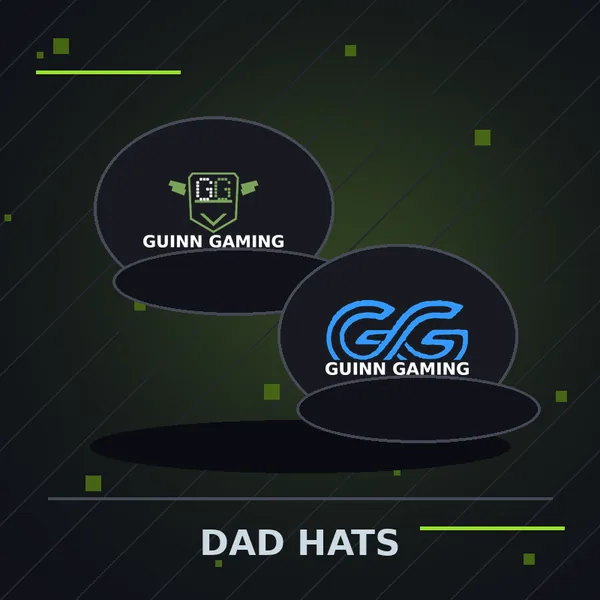
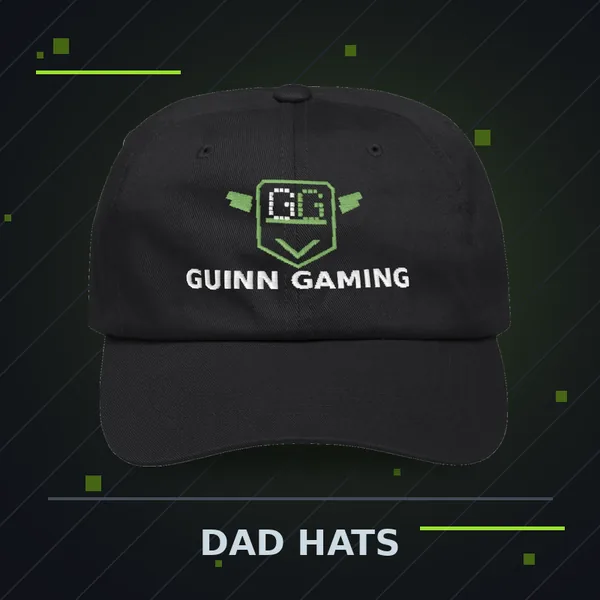
Store: swap category tiles for real Fourthwall product mockups (v2); update alt text

diff --git a/store/index.html b/store/index.html
@@ -67,49 +67,49 @@
       <p class="lead">Pick a category to browse it on the shop.</p>
       <div class="grid cat-grid">
         <a class="cat-card" style="--accent:#9BE22D" href="https://guinngaming-shop.fourthwall.com/" rel="noopener">
-          <img class="cat-img" src="../assets/img/store/tile-tees.webp" width="600" height="600" alt="Charcoal tee mockup with the cyan cyber-circuit GuinnGaming GG logo on the chest" loading="lazy">
+          <img class="cat-img" src="../assets/img/store/tile-tees.webp" width="600" height="600" alt="Black GuinnGaming tee with the cyan cyber-circuit GG logo (L06) printed on the chest" loading="lazy">
           <h3>Tees</h3>
           <p>Soft everyday tee with your favorite GG on the front.</p>
           <span class="price">$22</span>
           <span class="go">Shop tees &rarr;</span>
         </a>
         <a class="cat-card" style="--accent:#2ee6d6" href="https://guinngaming-shop.fourthwall.com/" rel="noopener">
-          <img class="cat-img" src="../assets/img/store/tile-hoodies.webp" width="600" height="600" alt="Charcoal hoodie mockup with the metallic cyan and purple GG logo on the chest" loading="lazy">
+          <img class="cat-img" src="../assets/img/store/tile-hoodies.webp" width="600" height="600" alt="Black GuinnGaming hoodie with the metallic cyan and purple GG logo (L15) printed on the chest" loading="lazy">
           <h3>Hoodies</h3>
           <p>Cozy pullover hoodie for long gaming nights.</p>
           <span class="price">$40</span>
           <span class="go">Shop hoodies &rarr;</span>
         </a>
         <a class="cat-card" style="--accent:#f5c542" href="https://guinngaming-shop.fourthwall.com/" rel="noopener">
-          <img class="cat-img" src="../assets/img/store/tile-dad-hats.webp" width="600" height="600" alt="Two dark dad hat mockups, one with the lime and white shield logo and one with the aqua neon GG logo embroidered on the front" loading="lazy">
+          <img class="cat-img" src="../assets/img/store/tile-dad-hats.webp" width="600" height="600" alt="Black GuinnGaming dad hat with the lime and white esports shield logo (L03) embroidered on the front" loading="lazy">
           <h3>Dad Hats</h3>
           <p>Embroidered dad hat with a clean, bold logo.</p>
           <span class="price">$25</span>
           <span class="go">Shop hats &rarr;</span>
         </a>
         <a class="cat-card" style="--accent:#ff9f43" href="https://guinngaming-shop.fourthwall.com/" rel="noopener">
-          <img class="cat-img" src="../assets/img/store/tile-mugs.webp" width="600" height="600" alt="Charcoal mug mockup with the gold shield GG monogram logo" loading="lazy">
+          <img class="cat-img" src="../assets/img/store/tile-mugs.webp" width="600" height="600" alt="Black GuinnGaming mug with the gold shield GG monogram logo (L18)" loading="lazy">
           <h3>Mugs</h3>
           <p>Ceramic mug for snack runs and patch-note reading.</p>
           <span class="price">$14</span>
           <span class="go">Shop mugs &rarr;</span>
         </a>
         <a class="cat-card" style="--accent:#ffa8d2" href="https://guinngaming-shop.fourthwall.com/" rel="noopener">
-          <img class="cat-img" src="../assets/img/store/tile-stickers.webp" width="600" height="600" alt="Die-cut sticker of the white grunge crown GuinnGaming logo with a charcoal border" loading="lazy">
+          <img class="cat-img" src="../assets/img/store/tile-stickers.webp" width="600" height="600" alt="GuinnGaming kiss-cut sticker of the white grunge crown logo (L09)" loading="lazy">
           <h3>Stickers</h3>
           <p>Kiss-cut vinyl stickers for laptops, cases and water bottles.</p>
           <span class="price">$5.99</span>
           <span class="go">Shop stickers &rarr;</span>
         </a>
         <a class="cat-card" style="--accent:#4aa8ff" href="https://guinngaming-shop.fourthwall.com/" rel="noopener">
-          <img class="cat-img" src="../assets/img/store/tile-mouse-pads.webp" width="600" height="600" alt="Charcoal mouse pad mockup with the neon cyan GG logo" loading="lazy">
+          <img class="cat-img" src="../assets/img/store/tile-mouse-pads.webp" width="600" height="600" alt="Dark GuinnGaming mouse pad with the neon cyan GG logo (L19)" loading="lazy">
           <h3>Mouse Pads</h3>
           <p>Smooth mouse pad with a full-color print.</p>
           <span class="price">$19</span>
           <span class="go">Shop mouse pads &rarr;</span>
         </a>
         <a class="cat-card" style="--accent:#b48cff" href="https://guinngaming-shop.fourthwall.com/" rel="noopener">
-          <img class="cat-img" src="../assets/img/store/tile-desk-mats.webp" width="600" height="600" alt="Wide charcoal desk mat mockup with the lime esports shield GuinnGaming logo" loading="lazy">
+          <img class="cat-img" src="../assets/img/store/tile-desk-mats.webp" width="600" height="600" alt="Dark GuinnGaming desk mat with the lime esports shield logo (L03) in the center" loading="lazy">
           <h3>Desk Mats</h3>
           <p>Wide desk mat that fits your keyboard and mouse.</p>
           <span class="price">$24</span>
